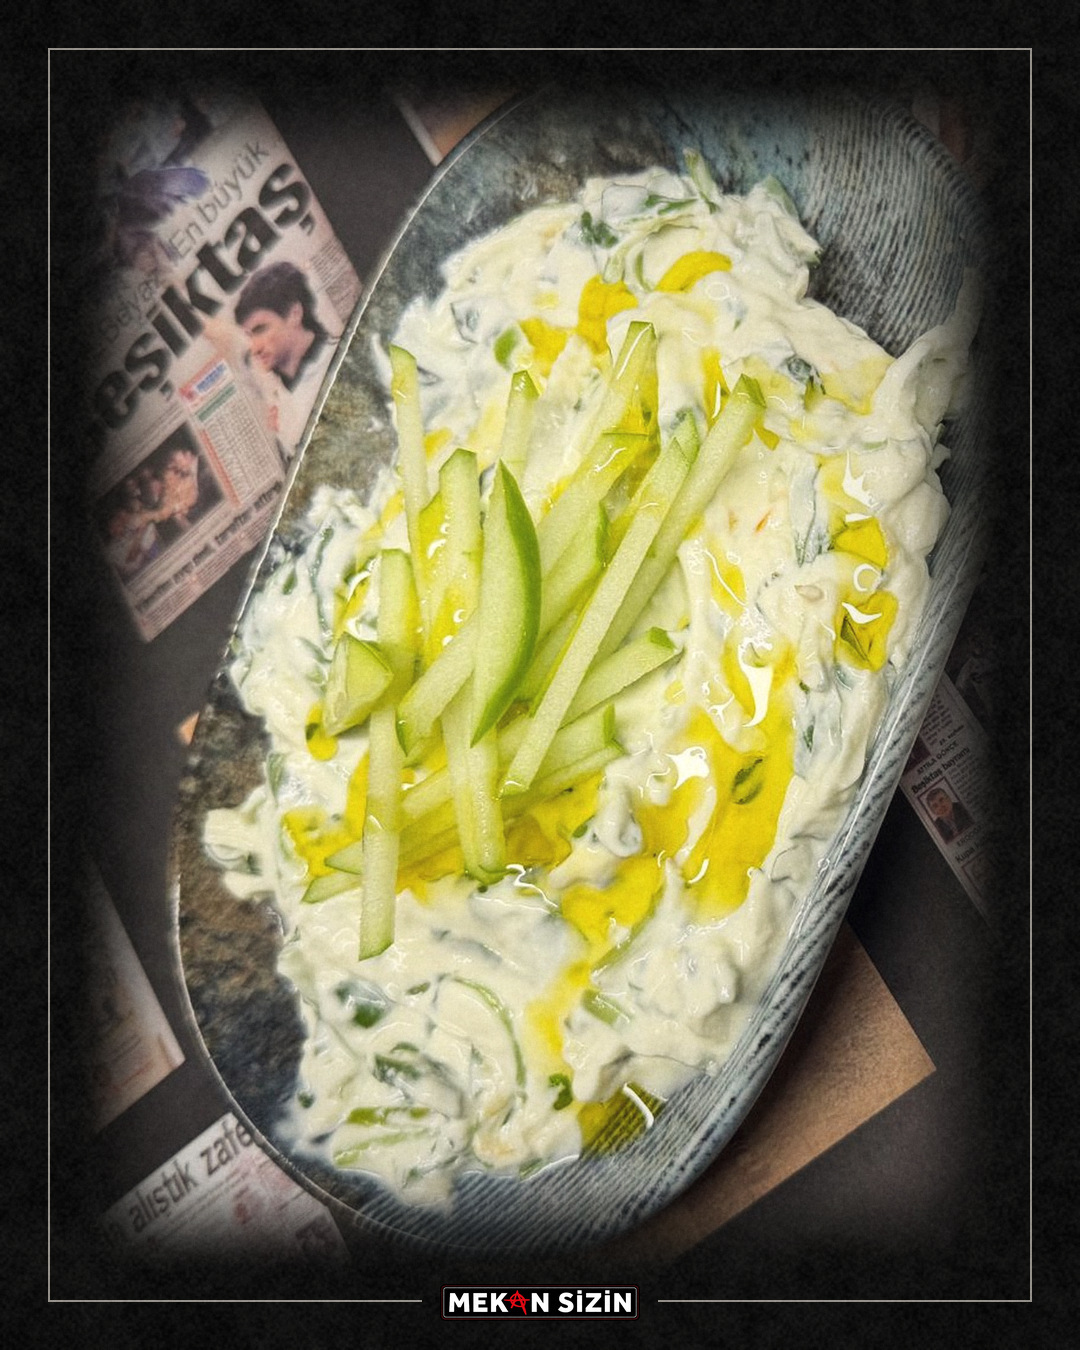
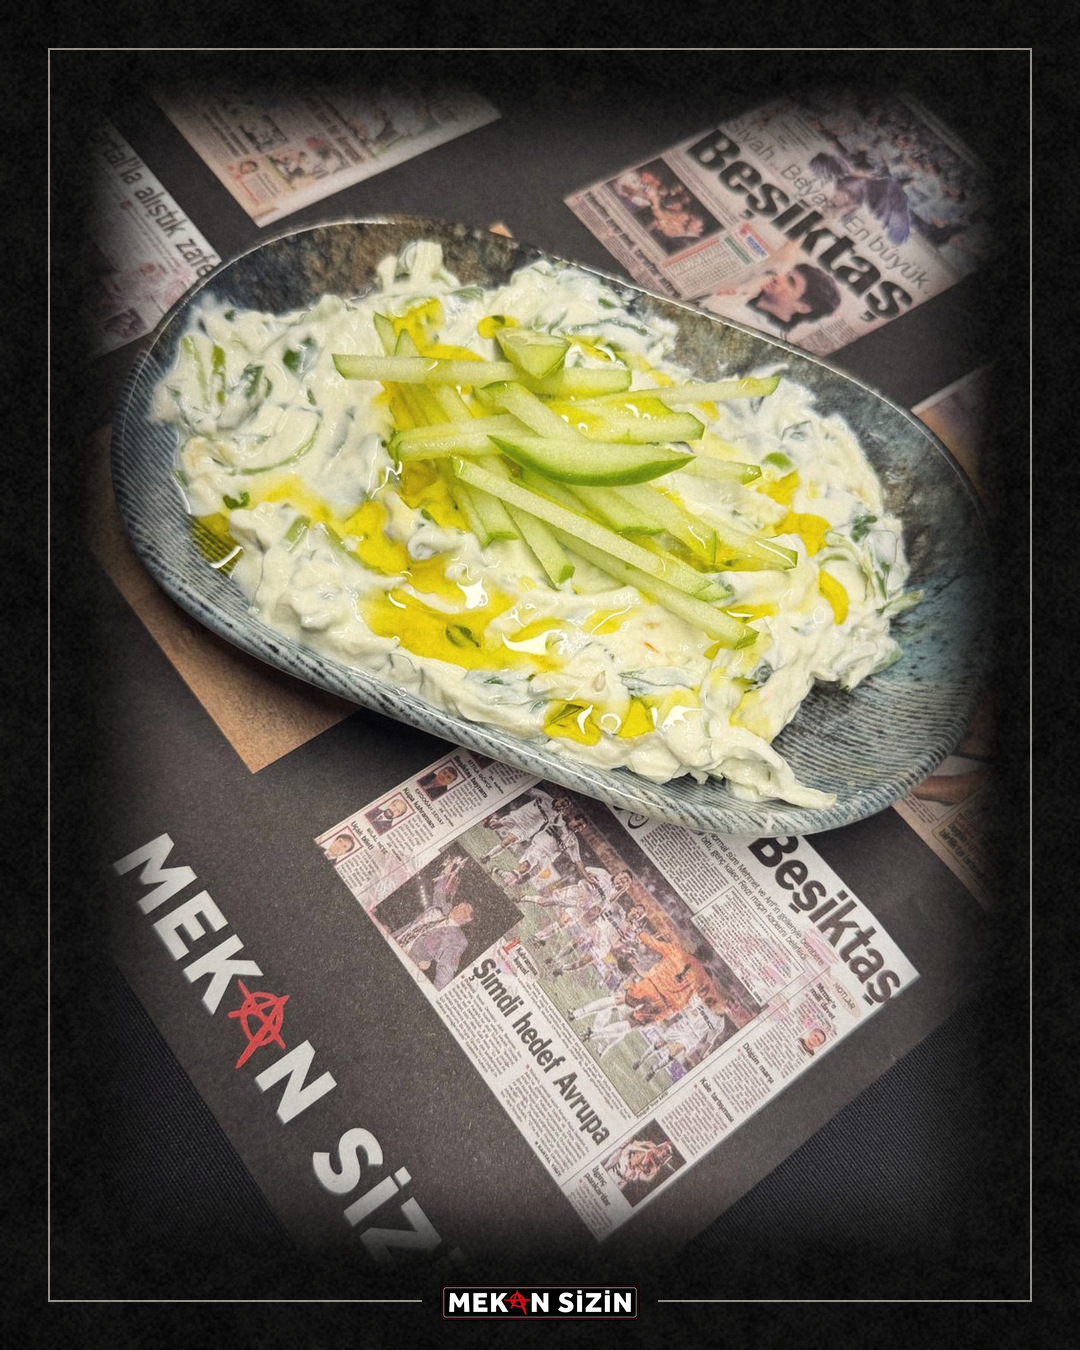
Turn the sideways cacık photo upright in Mekan Sizin week 2
rotus.py gains a 'dondur' option; the cacık frame is rotated 90° clockwise
and re-cropped so it matches the angle of the other meze photos.

Claude-Session: https://claude.ai/code/session_01XJxz6TxayURknP2UowWRAx

diff --git a/mekan-sizin/sablon/rotus.py b/mekan-sizin/sablon/rotus.py
@@ -1,7 +1,9 @@
 """Mekan Sizin - ham fotoğraflarda küçük leke temizliği (yağ damlası, kırıntı), doğallığı bozmadan.
 
 Kullanım:  python3 rotus.py rotus.json
-Her kayıt: {"kaynak": ham foto, "cikti": temiz foto, "lekeler": [[x, y, yarıçap], ...]} (piksel, kaynak üzerinde).
+Her kayıt: {"kaynak": ham foto, "cikti": temiz foto, "lekeler": [[x, y, yarıçap], ...], "dondur": 90}
+"lekeler" piksel cinsinden ve döndürülmüş fotoğraf üzerindedir; "dondur" yan çekilmiş kareyi saat yönünde
+90/180/270 derece çevirir.
 Her leke için yakındaki en uygun temiz doku aranır (çevre halkası en çok benzeyen yer) ve yumuşak kenarla
 üstüne kopyalanır; tabak sırrının benekli dokusu korunur, geri kalan her piksel aynen kalır.
 """
@@ -58,6 +60,9 @@ def main():
         items = json.load(fh)
     for item in items:
         img = Image.open(path(item["kaynak"]))
+        turn = {90: Image.ROTATE_270, 180: Image.ROTATE_180, 270: Image.ROTATE_90}.get(item.get("dondur", 0))
+        if turn is not None:
+            img = img.transpose(turn)
         out = clean(img, item.get("lekeler", [])) if item.get("lekeler") else img.convert("RGB")
         out.save(path(item["cikti"]), quality=95, subsampling=0)
         print("kaydedildi:", path(item["cikti"]), f"({len(item.get('lekeler', []))} leke)")
